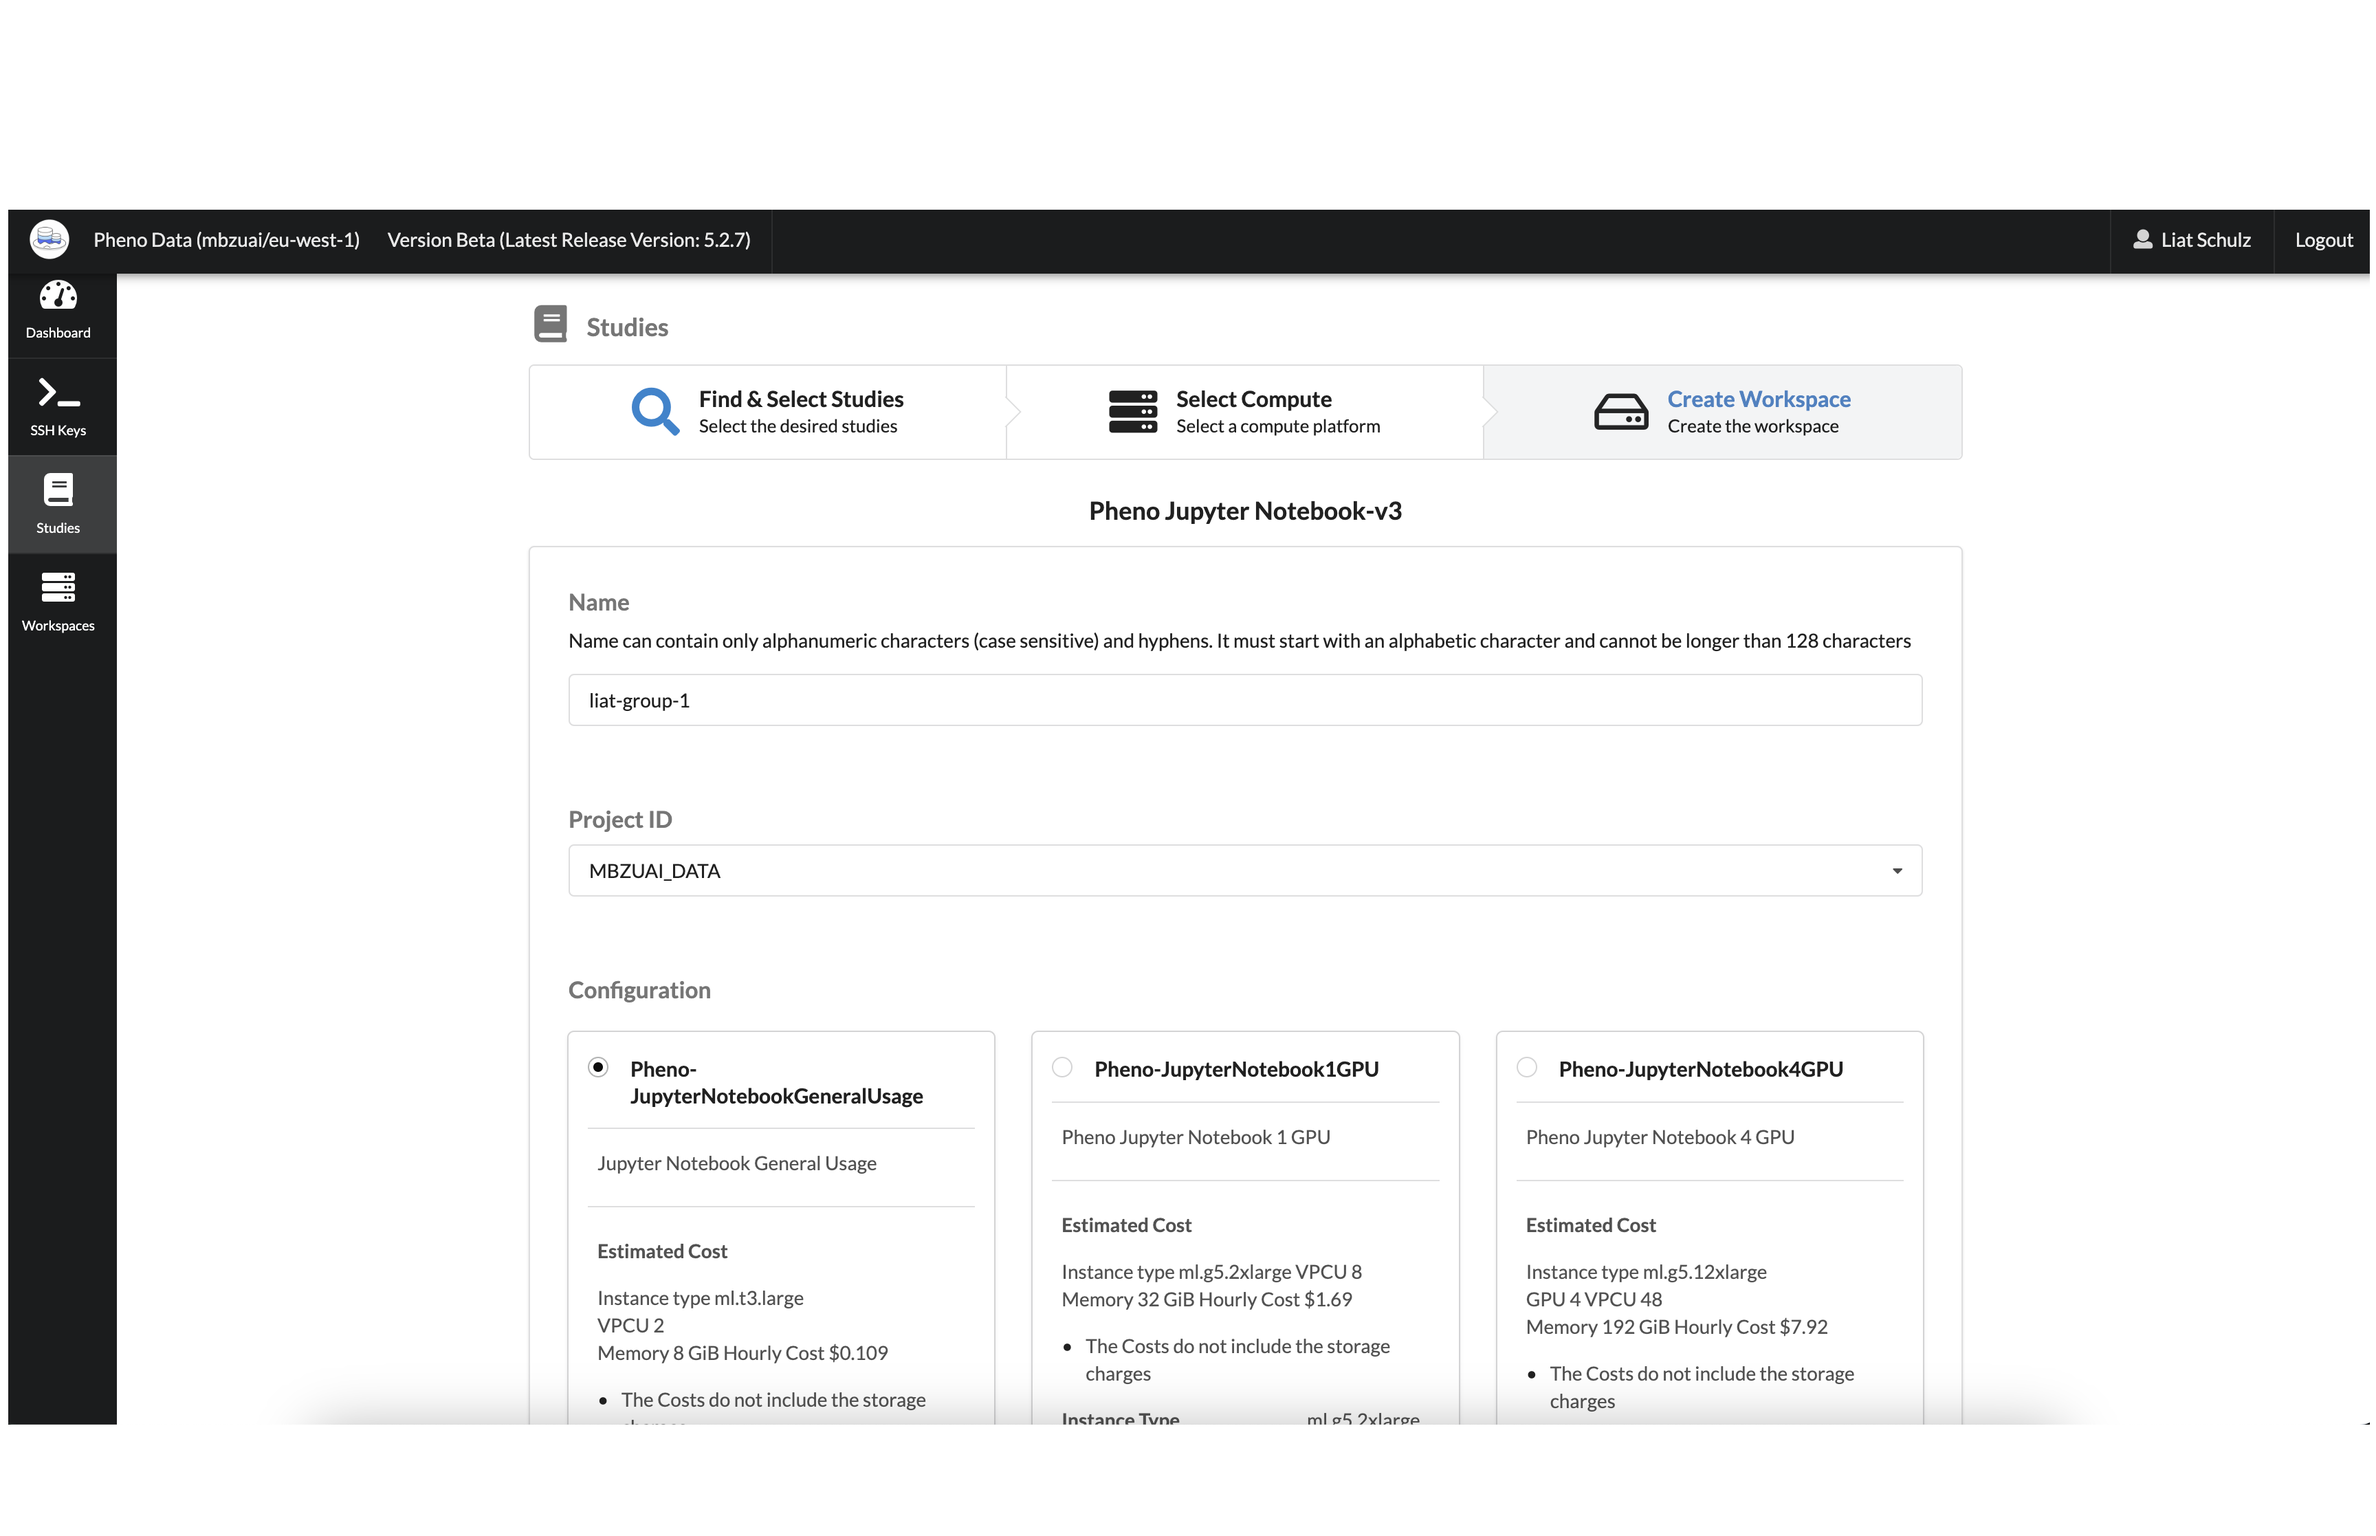
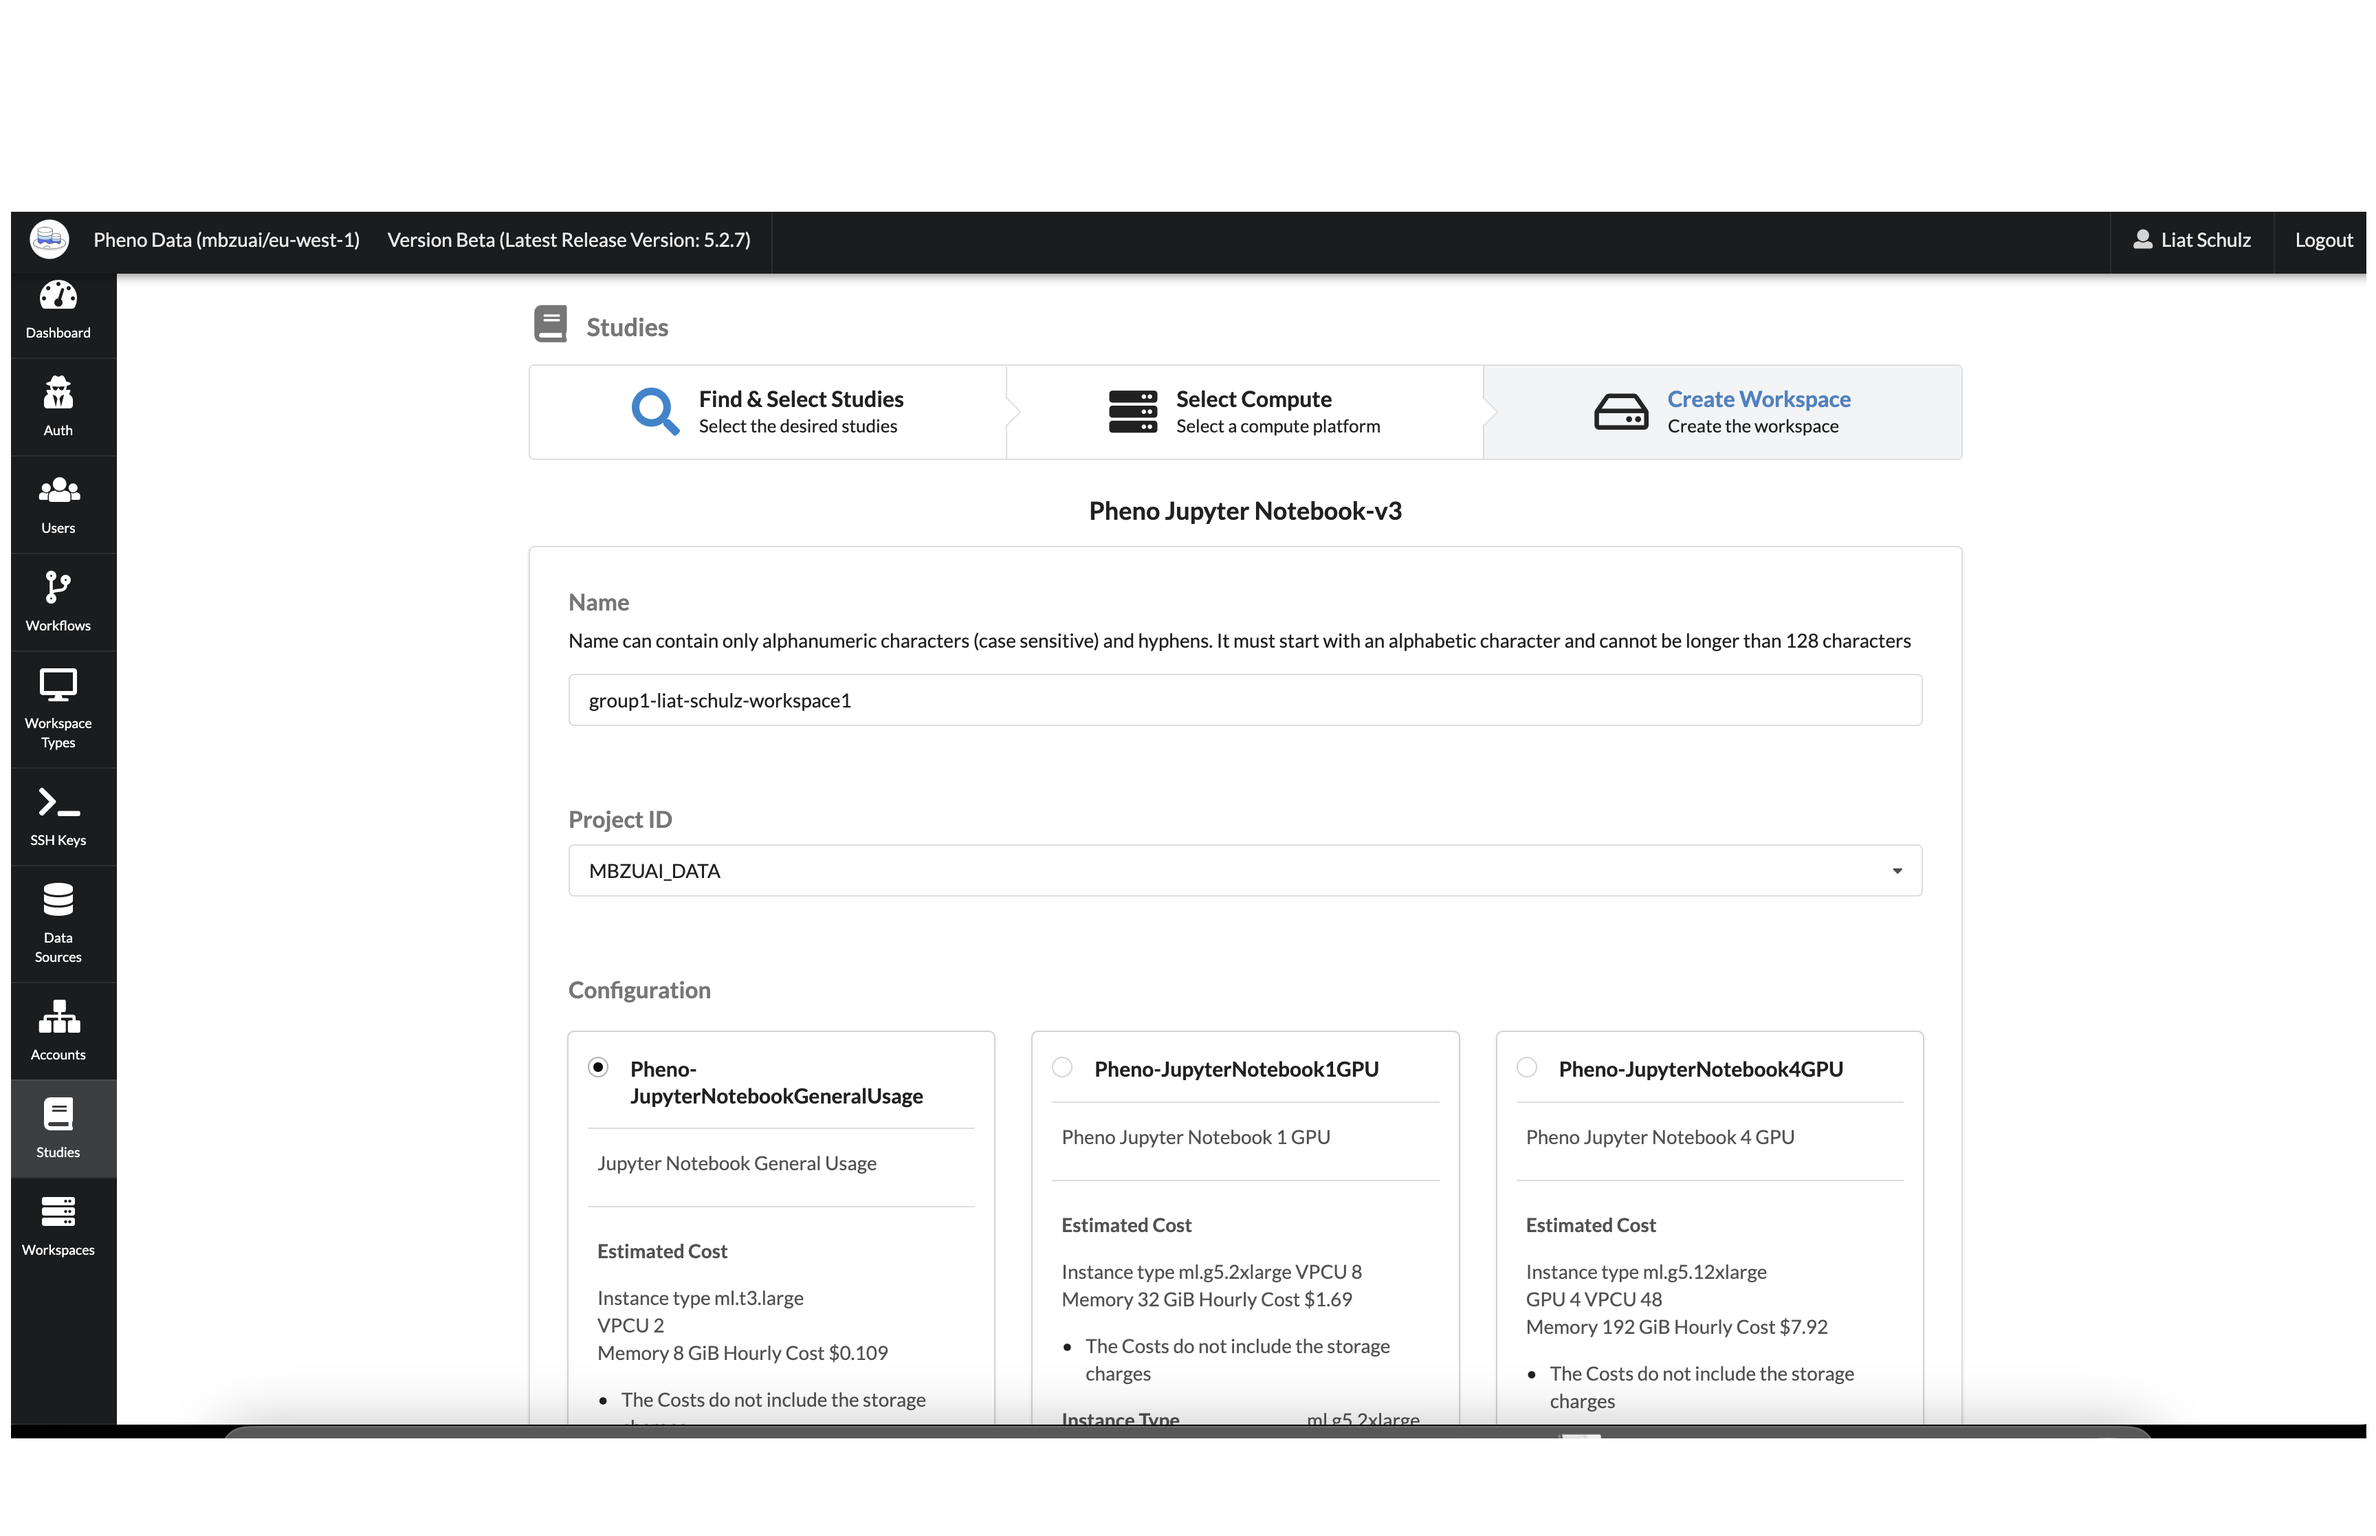
Platform docs improvements and hackathon specifics

diff --git a/nbs/platform_tutorial.md b/nbs/platform_tutorial.md
@@ -8,7 +8,7 @@ Trusted Research Environment (TRE) is a cloud solution that provides secure acce
 
 Use this section if this is your first time connecting to the system.
 
-1. Open your browser and navigate to the TRE URL.
+1. Open your browser and navigate to https://mbzuai.pheno.ai
 1. Click on the **Sign up** link.
 
 ![](platform_imgs/Aspose.Words.eb2aa5b5-7f63-4203-881b-2ae5083537c6.001.png)
@@ -21,7 +21,7 @@ Use this section if this is your first time connecting to the system.
 
 ## Login
 
-1. Open your browser and navigate to the TRE URL.
+1. Open your browser and navigate to https://mbzuai.pheno.ai
 1. Type in your **Username** (the email you used to sign up) and your **Password.**
 1. Click the **Sign In** button.
 
@@ -46,7 +46,7 @@ Use this section if this is your first time connecting to the system.
 A user can select a Study or multiple Studies and launch a Workspace to access and analyze data. To launch a Research Environment, follow these steps:
 
 1. In the portal navigate to the **Studies** page using the menu on the left.
-1. Select the Studies **MBZUAI Hackathon** and **Group X Shared Folder** to be attached to the new Workspace.
+1. Select the Studies `MBZUAI Hackathon` and `Group {id} Shared Folder` to be attached to the new Workspace.
 1. Once you have selected all the Studies you want, click the **Next** button.
 
 ![](platform_imgs/pick_studies.png)
@@ -55,34 +55,35 @@ A user can select a Study or multiple Studies and launch a Workspace to access a
 
 ![](platform_imgs/select_compute.png)
 
-5. Type a name for the Workspace in the **Name** field.
-5. Select **MBZUAI_DATA** in the **Project ID** drop down field.
-5. Select the **Configuration** type - **Pheno-JupyterNotebook1GPU** or **Pheno-JupyterNotebook4GPU** according to your needs.
+5. Use this format for the Workspace **Name** field: `group{id}-{full_name}-workspace{num}`. 
+    
+    Example: `group3-hagai_rossman-workspace1`.
+
+5. Select `MBZUAI_DATA` in the **Project ID** drop down field.
+5. Select the **Configuration** type - `Pheno-JupyterNotebook1GPU` or `Pheno-JupyterNotebook4GPU` according to your needs.
 8. Type a description for the Workspace in the **Description** field.
 9. Click the **Create Research Workspace** button.
 
 ![](platform_imgs/workspace_form1.png)
 ![](platform_imgs/workspace_form2.png)
 
-This will deploy the new Workspace and attach the Studies that were selected. You will automatically be redirected to the Workspaces tab on the portal.
-Wait for the workspace to be **Available**.
+This will deploy the new Workspace and attach the Studies that were selected. 
 
-![Wait for workspace creation](platform_imgs/wait_for_workspace.png)
+You will automatically be redirected to the Workspaces tab on the portal.
+
+Wait for the workspace to be **Available**.
 
 ## Connecting to an Existing Research Environment
 
 1. In the portal navigate to the **Workspaces** page using the menu on the left.
 1. Click on the **Connections** button, below the **Workspace** name.
 
-![](platform_imgs/Aspose.Words.eb2aa5b5-7f63-4203-881b-2ae5083537c6.008.jpeg)
+![](platform_imgs/existing_workspace.png)
 
 3. Click on the **Generate URL** button on the right, under HTTP Connections.
-
-![](platform_imgs/Aspose.Words.eb2aa5b5-7f63-4203-881b-2ae5083537c6.009.jpeg)
-
 4. Click on the **Copy icon** to copy the notebook link, and click **Connect.**
 
-![](platform_imgs/Aspose.Words.eb2aa5b5-7f63-4203-881b-2ae5083537c6.010.jpeg)
+![](platform_imgs/Aspose.Words.eb2aa5b5-7f63-4203-881b-2ae5083537c6.010.png)
 
 5. Wait for the system to load.
 
@@ -106,32 +107,11 @@ Wait for the workspace to be **Available**.
 
 ## Attach Files to a Research Environment
 
-**Create a Study**
-
 1. Navigate to the **Studies** page using the menu on the left.
-2. Click the **Create Study** button.
-
-![](platform_imgs/Aspose.Words.eb2aa5b5-7f63-4203-881b-2ae5083537c6.016.jpeg)
-
-3. Provide an ID for the Study in the **ID** field.
-4. Choose either **My Study** or **Organizational Study** as the type of Study you are creating.
-5. Enter a name for the Study in the **Name** field.
-6. Enter a description for the Study in the **Description** field.
-7. Select the **Project** that this Study relates to in the **Project ID** drop down field.
-8. Click the **Create Study** button.
-
-![](platform_imgs/Aspose.Words.eb2aa5b5-7f63-4203-881b-2ae5083537c6.017.jpeg)
-
-**Upload files to a Study**
-
-1. Navigate to the **Studies** page using the menu on the left.
-1. Find the Study on the list and click **Upload Files** on the right.
+1. Find the Study named `Group {id} Shared Folder` on the list and click **Upload Files** on the right.
 1. You can upload files either by dragging and dropping, or by clicking the **Upload Files** or **Upload Folder** button.
 
-**Attach Study to Research Environment**
-
-1. Navigate to the **Studies** page using the menu on the left.
-1. Mark the **Study** checkbox and follow the instruction on creating a new Research Environment .
+![](platform_imgs/upload_files.png)
 
 ## Collaborating and Sharing Data Between Environments
 
